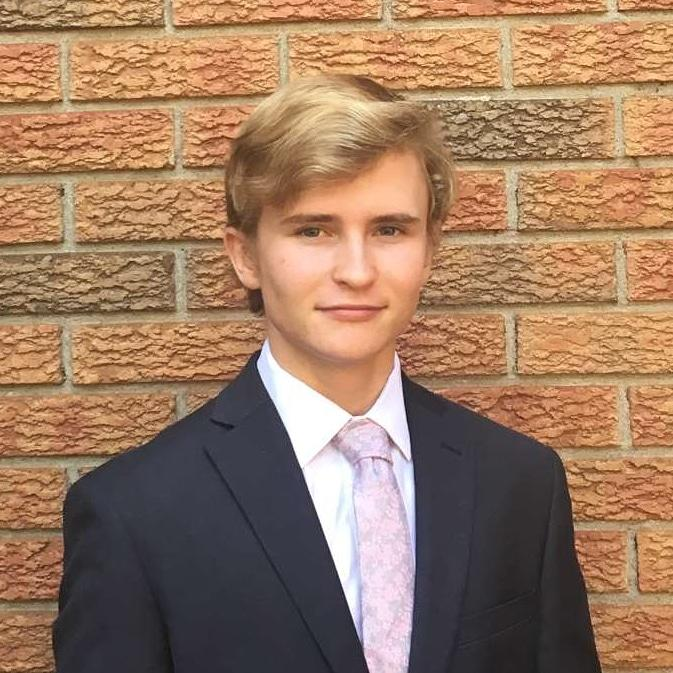
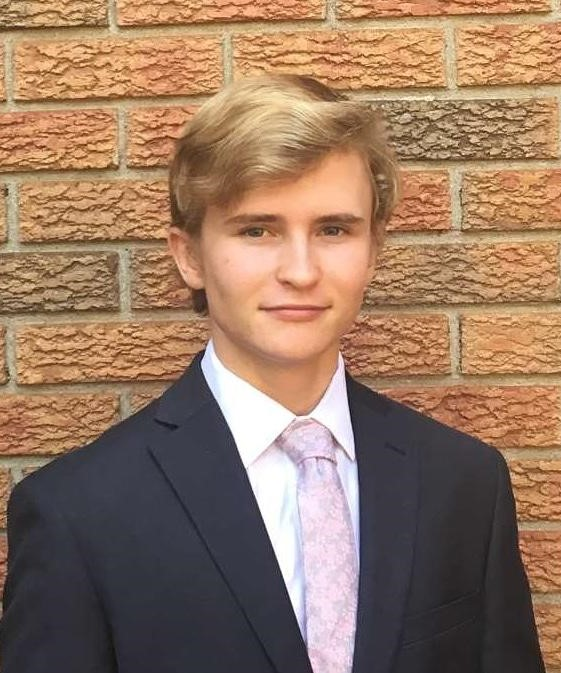
added the second picture

diff --git a/contactUs.html b/contactUs.html
@@ -52,7 +52,7 @@
 		</div>
 		
 		<div class="person">
-			<div style="width:200px;height:240px;border:1px solid #000;" class = "picture">Jake's Photo</div>
+			<div class = "picture"><img src = "teamPhotos/Jake.jpg" width = 200px;height = 240px></div>
 			<p class = "name">Jake Bisson</p>
 			<p class = "function">Chief of Design and Web Architect (CDO)</p>
 			<p class = "functionDescription">Responsible for developing and managing all aspects of our design and creative output. 
